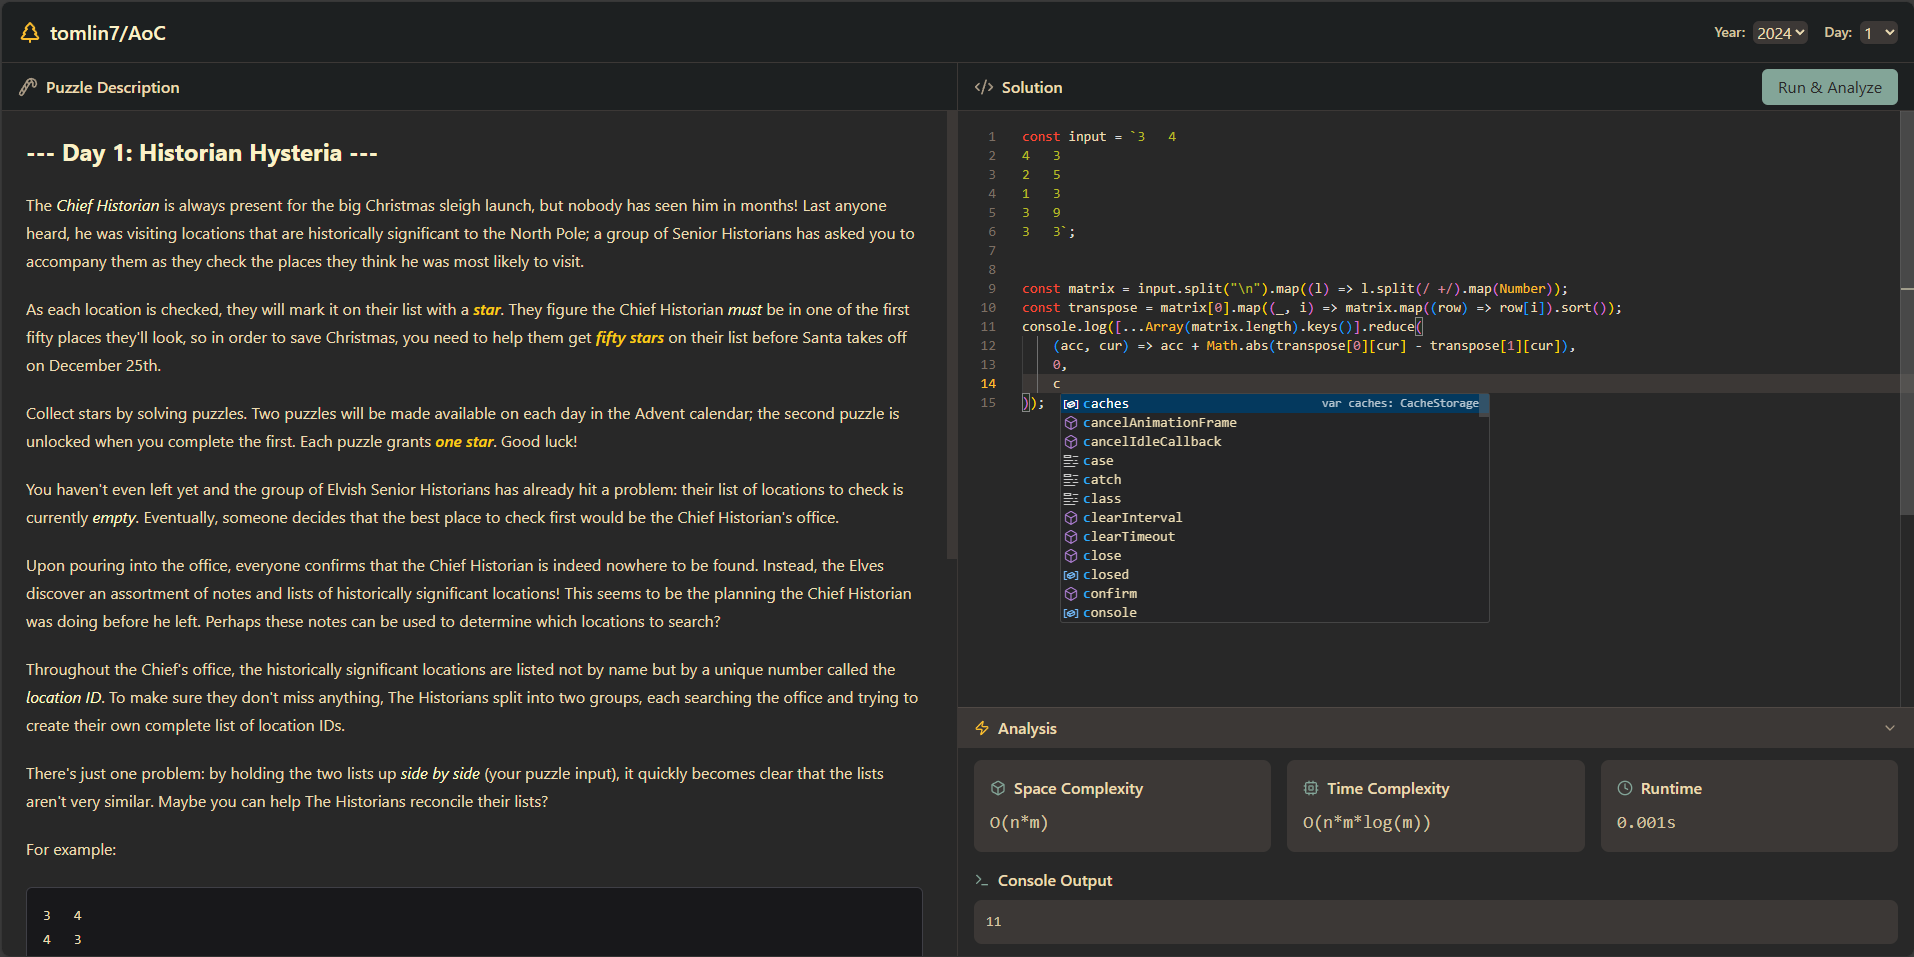
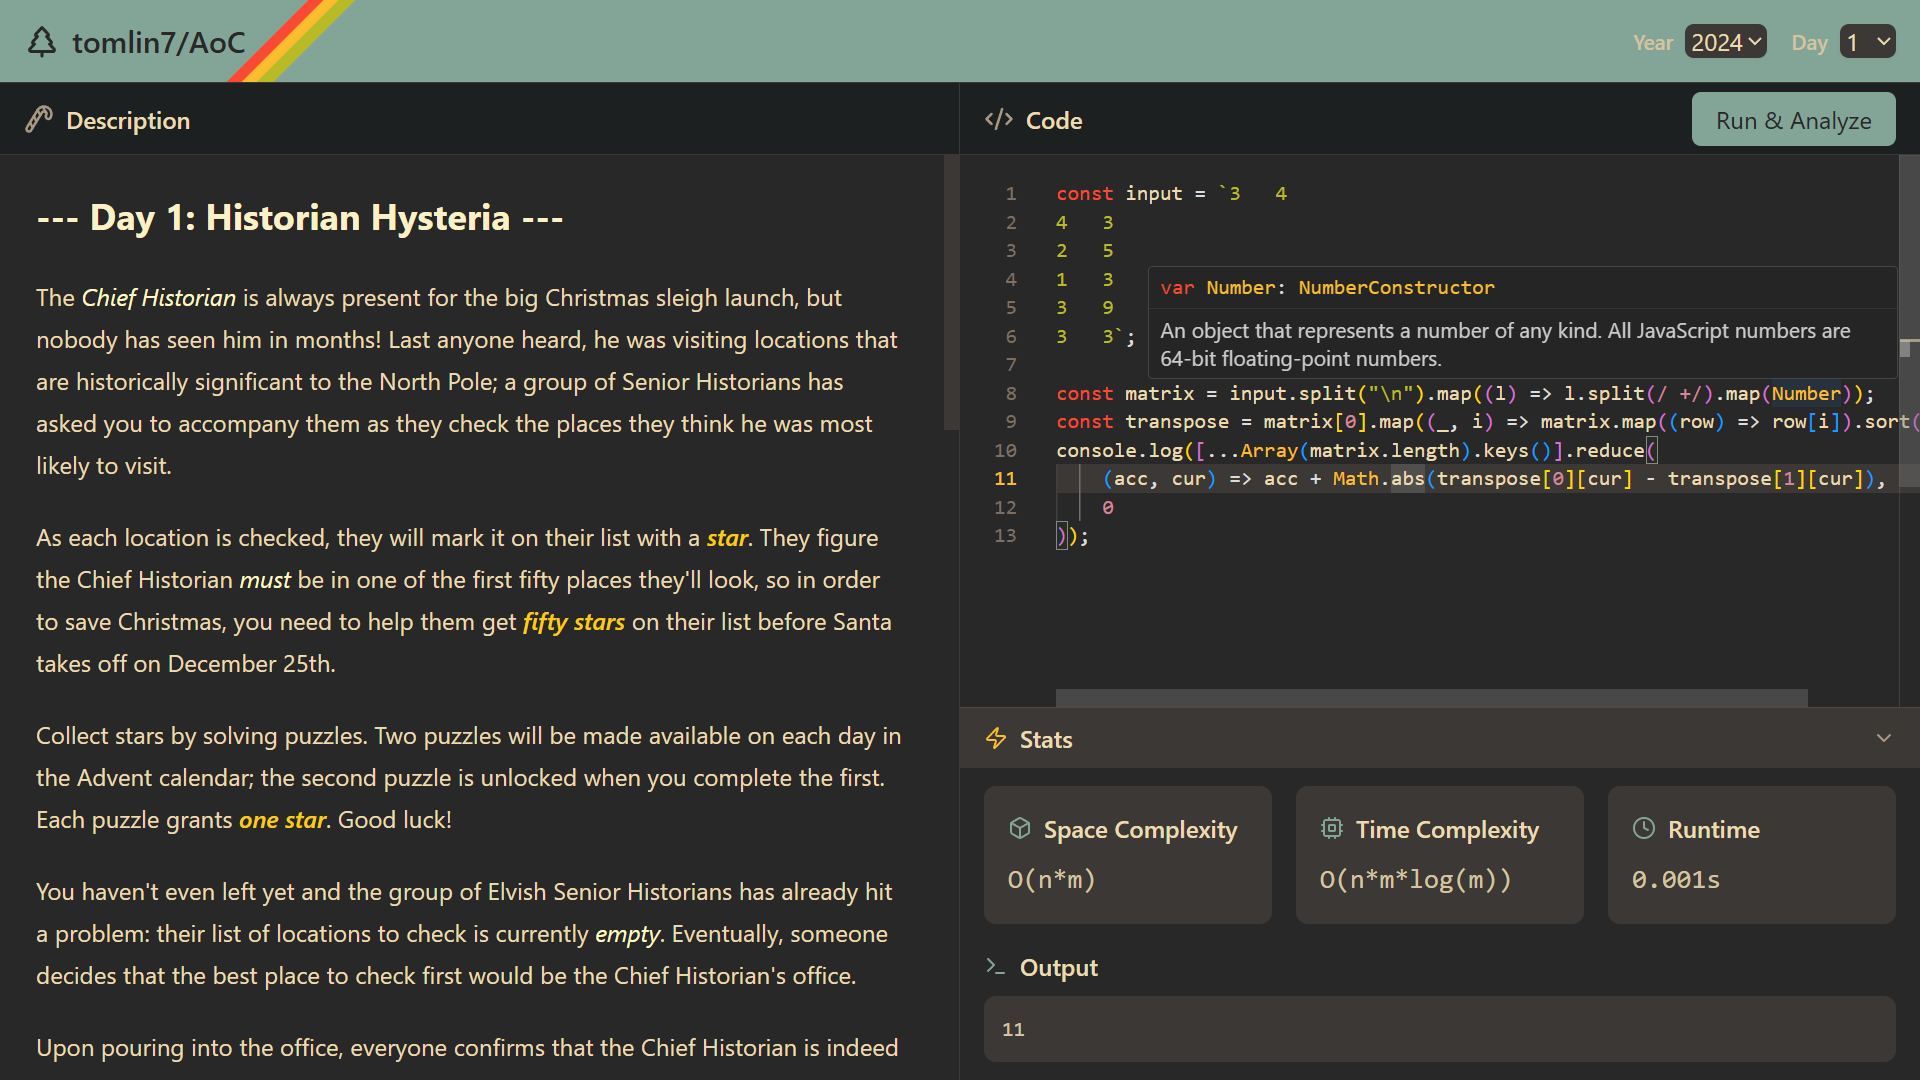
feat: Github links added

diff --git a/src/App.tsx b/src/App.tsx
@@ -44,6 +44,11 @@ function App() {
     setCode(value || "");
   };
 
+  // oopen github page
+  const openGithub = () => {
+    window.open("https://github.com/tomlin7/AoC");
+  };
+
   const handleRunCode = async () => {
     setIsPanelOpen(true);
     setPerformance((prev) => ({ ...prev, isAnalyzing: true }));
@@ -95,20 +100,71 @@ function App() {
       style={{ backgroundColor: colors.bg0 }}
     >
       <header
-        style={{ backgroundColor: colors.bg0_h, borderColor: colors.bg1 }}
-        className="border-b flex-none"
+        style={{ backgroundColor: colors.blue, borderColor: colors.bg1 }}
+        className="border-b flex justify-between "
       >
+        <div className="flex">
+          <div
+            className="flex max-h-full items-center gap-2 px-4"
+            style={{
+              backgroundColor: colors.blue,
+            }}
+          >
+            <TreePine className="h-6 w-6" style={{ color: colors.bg0 }} />
+            <h1
+              className="text-xl font-semibold cursor-pointer select-none"
+              style={{
+                color: colors.bg0,
+              }}
+              onClick={openGithub}
+            >
+              tomlin7/AoC
+            </h1>
+          </div>
+
+          <div style={{ overflowY: "clip", position: "relative" }}>
+            <div
+              className="w-2 transform rotate-45"
+              style={{
+                backgroundColor: colors.red,
+                position: "absolute",
+                height: "200%",
+                top: "-50%",
+                left: "0",
+              }}
+            ></div>
+            <div
+              className="w-2 h-full transform rotate-45"
+              style={{
+                backgroundColor: colors.yellow,
+                position: "absolute",
+                height: "200%",
+                top: "-50%",
+                left: "10px",
+              }}
+            ></div>
+            <div
+              className="w-2 h-full transform rotate-45"
+              style={{
+                backgroundColor: colors.green,
+                position: "absolute",
+                height: "200%",
+                top: "-50%",
+                left: "20px",
+              }}
+            ></div>
+          </div>
+        </div>
+
         <div className="max-w-full px-4 py-4">
-          <div className="flex justify-between items-center">
-            <div className="flex items-center gap-2">
-              <TreePine className="h-6 w-6" style={{ color: colors.yellow }} />
-              <h1
-                className="text-xl font-semibold"
-                style={{ color: colors.fg0 }}
-              >
-                tomlin7/AoC
-              </h1>
-            </div>
+          <div className="flex justify-between items-end">
+            {/* <div className="flex items-center">
+              <Github
+                className="h-6 w-6"
+                style={{ color: colors.yellow }}
+                onClick={openGithub}
+              />
+            </div> */}
             <YearDaySelector
               year={year}
               day={day}

diff --git a/src/components/YearDay.tsx b/src/components/YearDay.tsx
@@ -34,7 +34,7 @@ export function YearDaySelector({
           className="text-sm font-medium"
           style={{ color: colors.fg2 }}
         >
-          Year:
+          Year
         </label>
         <select
           id="year"
@@ -56,7 +56,7 @@ export function YearDaySelector({
           className="text-sm font-medium"
           style={{ color: colors.fg2 }}
         >
-          Day:
+          Day
         </label>
         <select
           id="day"

diff --git a/README.md b/README.md
@@ -1,10 +1,10 @@
-## Advent of Code
+# Advent of Code
 
-This repo is home for my solutions and an editor for [Advent of Code](https://adventofcode.com).
+Home repo for my solutions and an AI powered editor and analysis tool for supercharging Advent of Code! Check the editor out [here](https://aoc24.vercel.app/).
 
 ![screenshot](.github/image.png)
 
-## How to run
+## Getting Started
 
 You will need bun/npm:
 
@@ -12,3 +12,5 @@ You will need bun/npm:
 bun i
 bun run dev
 ```
+
+thats it! You can now visit `localhost:5173` to see the app.
